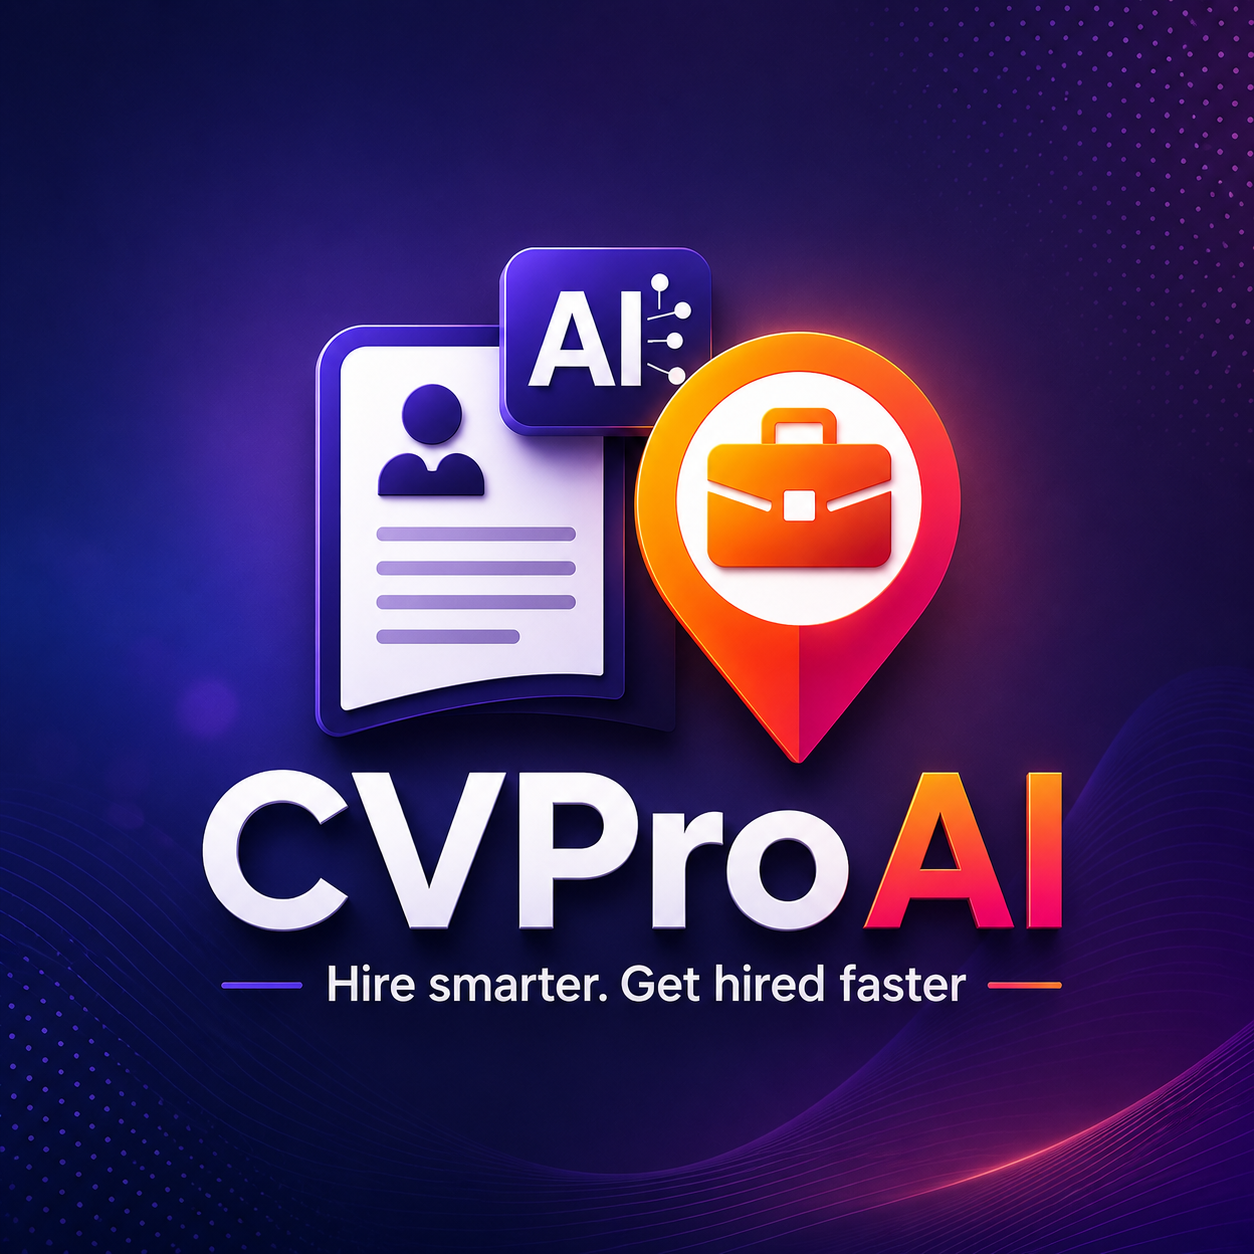
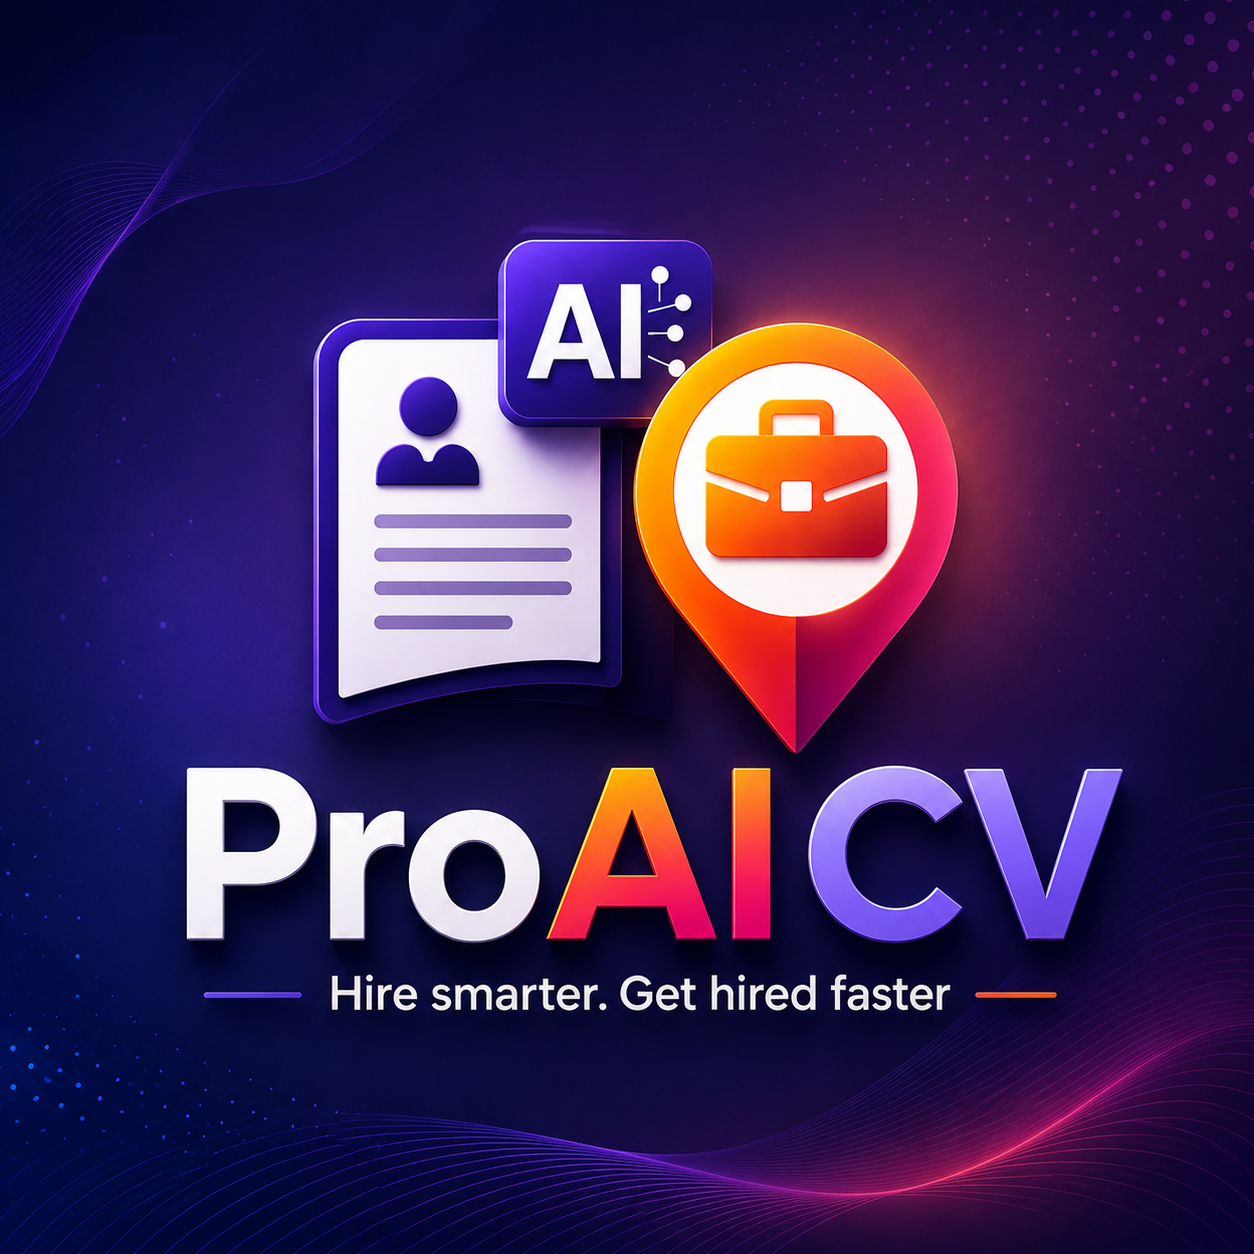
feat: rename app from CVProAI to ProAICV across entire codebase
Updated all display text, email templates, push notification titles,
app config, package names, and in-app strings. Slug, bundle IDs,
scheme, and website URLs left unchanged.

diff --git a/mobile/app/profile/settings.tsx b/mobile/app/profile/settings.tsx
@@ -16,7 +16,7 @@ export default function SettingsScreen() {
   const handleExportData = async () => {
     Alert.alert(
       'Export Your Data',
-      'We will prepare a summary of all your CVProAI data including resumes, applications, and settings.',
+      'We will prepare a summary of all your ProAICV data including resumes, applications, and settings.',
       [
         { text: 'Cancel', style: 'cancel' },
         {
@@ -136,7 +136,7 @@ export default function SettingsScreen() {
           icon: '📄',
           sub: 'Usage terms and conditions',
           onPress: () =>
-            Alert.alert('Terms of Service', 'By using CVProAI you agree to use the service for lawful job-search purposes only. AI-generated content is for guidance and should be reviewed before use.'),
+            Alert.alert('Terms of Service', 'By using ProAICV you agree to use the service for lawful job-search purposes only. AI-generated content is for guidance and should be reviewed before use.'),
         },
       ],
     },
@@ -194,8 +194,8 @@ export default function SettingsScreen() {
         ))}
 
         <View style={styles.appInfo}>
-          <Text style={styles.appInfoText}>CVProAI v1.0.0</Text>
-          <Text style={styles.appInfoText}>© 2026 CVProAI. All rights reserved.</Text>
+          <Text style={styles.appInfoText}>ProAICV v1.0.0</Text>
+          <Text style={styles.appInfoText}>© 2026 ProAICV. All rights reserved.</Text>
         </View>
       </ScrollView>
     </SafeAreaView>

diff --git a/mobile/app/(provider-tabs)/profile.tsx b/mobile/app/(provider-tabs)/profile.tsx
@@ -154,7 +154,7 @@ export default function ProviderProfileScreen() {
           { icon: '📞', title: 'Contact Us', onPress: () => Linking.openURL(`mailto:${SUPPORT_EMAIL}`) },
           { icon: '📋', title: 'Terms & Conditions', onPress: () => Linking.openURL(TERMS_URL) },
           { icon: '🔒', title: 'Privacy Policy', onPress: () => Linking.openURL(PRIVACY_URL) },
-          { icon: 'ℹ', title: 'About CVProAI', sub: 'v1.0.0', onPress: () => {} },
+          { icon: 'ℹ', title: 'About ProAICV', sub: 'v1.0.0', onPress: () => {} },
         ])}
 
         <TouchableOpacity style={[styles.logoutBtn, Shadow.sm]} onPress={handleLogout} activeOpacity={0.8}>

diff --git a/mobile/app/profile/notifications.tsx b/mobile/app/profile/notifications.tsx
@@ -52,7 +52,7 @@ export default function NotificationSettingsScreen() {
       <ScrollView contentContainerStyle={styles.container}>
         <View style={[styles.card, Shadow.sm]}>
           <Text style={styles.sectionTitle}>Push Notifications</Text>
-          <Text style={styles.sectionSub}>Sent to your device via the CVProAI app</Text>
+          <Text style={styles.sectionSub}>Sent to your device via the ProAICV app</Text>
 
           <PrefRow
             label="Job alerts"

diff --git a/mobile/app/(auth)/forgot-password.tsx b/mobile/app/(auth)/forgot-password.tsx
@@ -57,7 +57,7 @@ export default function ForgotPasswordScreen() {
       <KeyboardAvoidingView style={styles.flex} behavior={Platform.OS === 'ios' ? 'padding' : undefined}>
         <ScrollView contentContainerStyle={styles.container} keyboardShouldPersistTaps="handled">
           <View style={styles.header}>
-            <Text style={styles.logo}>CVProAI</Text>
+            <Text style={styles.logo}>ProAICV</Text>
           </View>
 
           <View style={styles.form}>

diff --git a/mobile/app/(auth)/reset-password.tsx b/mobile/app/(auth)/reset-password.tsx
@@ -69,7 +69,7 @@ export default function ResetPasswordScreen() {
       <KeyboardAvoidingView style={styles.flex} behavior={Platform.OS === 'ios' ? 'padding' : undefined}>
         <ScrollView contentContainerStyle={styles.container} keyboardShouldPersistTaps="handled">
           <View style={styles.header}>
-            <Text style={styles.logo}>CVProAI</Text>
+            <Text style={styles.logo}>ProAICV</Text>
           </View>
 
           <View style={styles.form}>

diff --git a/mobile/app/(auth)/register.tsx b/mobile/app/(auth)/register.tsx
@@ -77,7 +77,7 @@ export default function RegisterScreen() {
               <View style={[styles.logoMark, isProvider && { backgroundColor: Colors.tertiaryContainer }]}>
                 <Text style={styles.logoMarkIcon}>{isProvider ? '🏢' : '✦'}</Text>
               </View>
-              <Text style={styles.logo}>CVProAI</Text>
+              <Text style={styles.logo}>ProAICV</Text>
               <Text style={styles.tagline}>{tagline}</Text>
             </View>
 

diff --git a/mobile/app/role-select.tsx b/mobile/app/role-select.tsx
@@ -53,7 +53,7 @@ export default function RoleSelectScreen() {
           <View style={styles.logoMark}>
             <Text style={styles.logoMarkIcon}>✦</Text>
           </View>
-          <Text style={styles.logoText}>CVProAI</Text>
+          <Text style={styles.logoText}>ProAICV</Text>
           <Text style={styles.heroTagline}>Your AI-powered career platform</Text>
 
           <View style={styles.pillRow}>

diff --git a/mobile/app/(auth)/verify-phone.tsx b/mobile/app/(auth)/verify-phone.tsx
@@ -121,7 +121,7 @@ export default function VerifyPhoneScreen() {
               <View style={styles.logoMark}>
                 <Text style={styles.logoMarkIcon}>✦</Text>
               </View>
-              <Text style={styles.logo}>CVProAI</Text>
+              <Text style={styles.logo}>ProAICV</Text>
               <Text style={styles.tagline}>Verify your mobile number</Text>
             </View>
 

diff --git a/mobile/app/(auth)/login.tsx b/mobile/app/(auth)/login.tsx
@@ -64,7 +64,7 @@ export default function LoginScreen() {
               <View style={styles.logoMark}>
                 <Text style={styles.logoMarkIcon}>✦</Text>
               </View>
-              <Text style={styles.logo}>CVProAI</Text>
+              <Text style={styles.logo}>ProAICV</Text>
               <Text style={styles.tagline}>{tagline}</Text>
             </View>
 

diff --git a/mobile/app/(auth)/onboarding/provider-setup.tsx b/mobile/app/(auth)/onboarding/provider-setup.tsx
@@ -90,7 +90,7 @@ export default function ProviderSetupScreen() {
             <View style={styles.logoMark}>
               <Text style={styles.logoMarkIcon}>✦</Text>
             </View>
-            <Text style={styles.logo}>CVProAI</Text>
+            <Text style={styles.logo}>ProAICV</Text>
             <Text style={styles.subtitle}>Provider Setup</Text>
           </View>
 

diff --git a/mobile/app/(tabs)/profile.tsx b/mobile/app/(tabs)/profile.tsx
@@ -202,7 +202,7 @@ export default function ProfileTab() {
             </View>
             <View style={styles.menuLabelWrap}>
               <Text style={styles.menuLabel}>App Version</Text>
-              <Text style={styles.menuSub}>CVProAI v1.0.0</Text>
+              <Text style={styles.menuSub}>ProAICV v1.0.0</Text>
             </View>
           </View>
         </View>

diff --git a/mobile/app/(tabs)/_layout.tsx b/mobile/app/(tabs)/_layout.tsx
@@ -68,7 +68,7 @@ export default function TabsLayout() {
         name="index"
         options={{
           title: 'Home',
-          headerTitle: 'CVProAI',
+          headerTitle: 'ProAICV',
           headerShown: false,
           tabBarIcon: ({ focused, color }) => (
             <TabIcon name="home-outline" activeName="home" focused={focused} color={color} />
